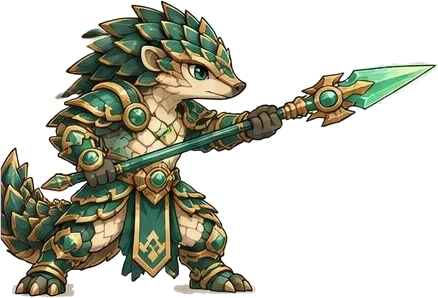
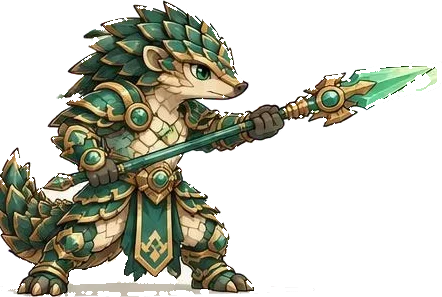
Realm: Kestran's spear kept whole in standing and cast poses
Claude-Session: https://claude.ai/code/session_01V1aEsn5B6Gnr4Ug8DBZ5Wk

diff --git a/realm-images.js b/realm-images.js
@@ -12,10 +12,10 @@ const RL_ART={
   // f: standing art for each form, with the same placement fields (w/ih = file size).
   // Kestran (pangolin spear knight, chibi). LEGENDARY. Frames per form are [Spear Thrust, Winding Sweep, Spearstorm]:
   // the thrust is a lunge; the sweep reuses the thrust stance (the sheet's sweep crosses his legs) and draws the painted arc.
-  pan:{f:[{src:'art/pan-1.webp',ax:242,ay:487,h:472,w:462,ih:487,ht:0},{src:'art/pan-2.webp',ax:252,ay:502,h:485,w:455,ih:501,ht:0},{src:'art/pan-3.webp',ax:294,ay:580,h:562,w:625,ih:580,ht:0}],pose:'skill',melee:true,meleeSk:[true,false,false],dashPose:0,slash:'jade',
-        c:[[{src:'art/pan-1c1.webp',ax:128,ay:285,h:276,w:412,ih:285,ht:0},{src:'art/pan-1c2.webp',ax:128,ay:285,h:276,w:412,ih:285,ht:0},{src:'art/pan-1c3.webp',ax:138,ay:307,h:296,w:287,ih:306,ht:0}],
-           [{src:'art/pan-2c1.webp',ax:130,ay:290,h:280,w:424,ih:289,ht:0},{src:'art/pan-2c2.webp',ax:130,ay:290,h:280,w:424,ih:289,ht:0},{src:'art/pan-2c3.webp',ax:142,ay:392,h:380,w:291,ih:392,ht:0}],
-           [{src:'art/pan-3c1.webp',ax:133,ay:298,h:289,w:438,ih:298,ht:0},{src:'art/pan-3c2.webp',ax:133,ay:298,h:289,w:438,ih:298,ht:0},{src:'art/pan-3c3.webp',ax:145,ay:398,h:385,w:292,ih:397,ht:0}]],
+  pan:{f:[{src:'art/pan-1.webp',ax:242,ay:487,h:472,w:464,ih:487,ht:0},{src:'art/pan-2.webp',ax:252,ay:501,h:485,w:457,ih:501,ht:0},{src:'art/pan-3.webp',ax:294,ay:580,h:562,w:625,ih:580,ht:0}],pose:'skill',melee:true,meleeSk:[true,false,false],dashPose:0,slash:'jade',
+        c:[[{src:'art/pan-1c1.webp',ax:130,ay:284,h:275,w:416,ih:284,ht:0},{src:'art/pan-1c2.webp',ax:130,ay:284,h:275,w:416,ih:284,ht:0},{src:'art/pan-1c3.webp',ax:140,ay:313,h:303,w:289,ih:313,ht:0}],
+           [{src:'art/pan-2c1.webp',ax:132,ay:289,h:280,w:428,ih:289,ht:0},{src:'art/pan-2c2.webp',ax:132,ay:289,h:280,w:428,ih:289,ht:0},{src:'art/pan-2c3.webp',ax:144,ay:391,h:379,w:293,ih:391,ht:0}],
+           [{src:'art/pan-3c1.webp',ax:135,ay:297,h:288,w:442,ih:297,ht:0},{src:'art/pan-3c2.webp',ax:135,ay:297,h:288,w:442,ih:297,ht:0},{src:'art/pan-3c3.webp',ax:147,ay:421,h:408,w:304,ih:421,ht:0}]],
         spell:[{vp:['#ffffff','#d8fff0','#5fd9b0','#1e5a46'],hand:[150,150],bySkill:[null,{burst:'art/fx-pan-arc1.webp',aoe:'sweep'},{aoe:'spearrain',img:'art/fx-pan-spear1.webp'}]},
                {vp:['#ffffff','#d8fff0','#5fd9b0','#1e5a46'],hand:[150,150],bySkill:[null,{burst:'art/fx-pan-arc2.webp',aoe:'sweep'},{aoe:'spearrain',img:'art/fx-pan-spear2.webp'}]},
                {vp:['#ffffff','#d8fff0','#5fd9b0','#1e5a46'],hand:[150,150],bySkill:[null,{burst:'art/fx-pan-arc3.webp',aoe:'sweep'},{aoe:'spearrain',img:'art/fx-pan-spear3.webp'}]}]},
